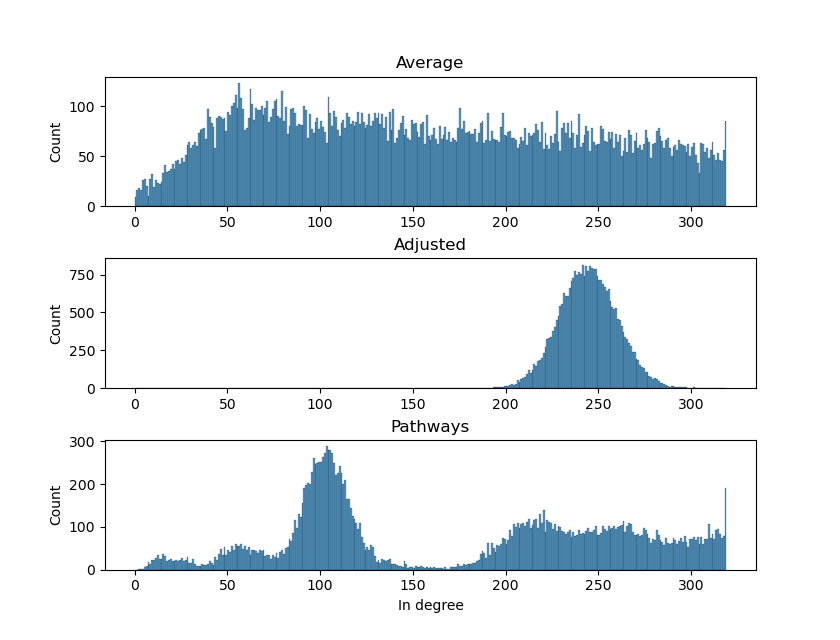
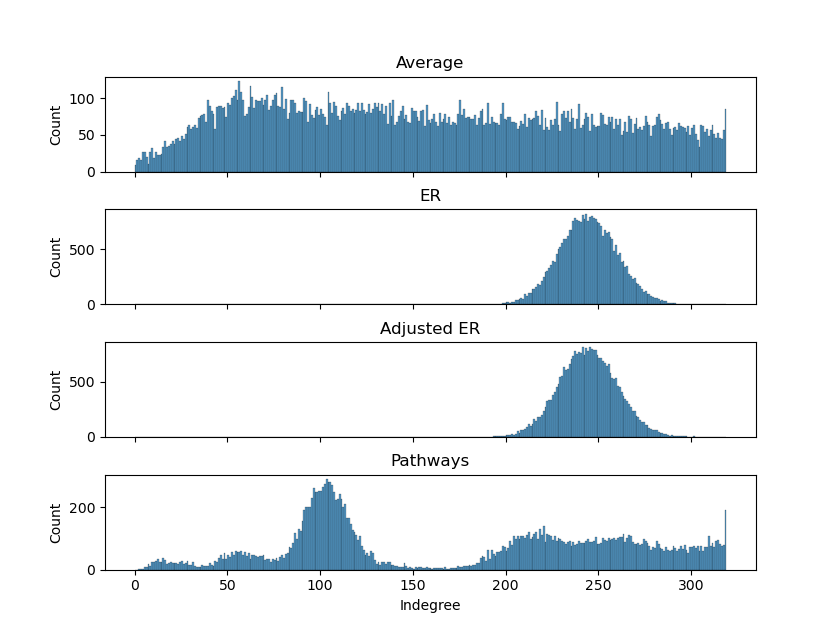
Changed degree distribution plots

diff --git a/plot_scripts/plot_distr.py b/plot_scripts/plot_distr.py
@@ -8,10 +8,12 @@ import matplotlib.pyplot as plt
 p_average = Path("data/ready/average/cons_locs_pathways_mc0_Column")
 p_adjusted = Path("data/ready/controls_1/adjusted/seed_0")
 p_pathways = Path("data/ready/controls_1/pathway/seed_0")
+p_er = Path("data/ready/controls_1/shuffled/seed_0")
 
 r_average = ResultManager(p_average)
 r_adjusted = ResultManager(p_adjusted)
 r_pathways = ResultManager(p_pathways)
+r_er = ResultManager(p_er)
 
 m_average = r_average.get_file_matrix(p_average)
 bm_average = m_average.multiply(m_average.T)
@@ -19,23 +21,36 @@ m_adjusted = r_adjusted.get_file_matrix(p_adjusted)
 bm_adjusted = m_adjusted.multiply(m_adjusted.T)
 m_pathways = r_pathways.get_file_matrix(p_pathways)
 bm_pathways = m_pathways.multiply(m_pathways.T)
+m_er = r_er.get_file_matrix(p_er)
+bm_er = m_er.multiply(m_er.T)
 
-count_a = np.squeeze(np.array(bm_average.sum(axis=1)))
-count_b = np.squeeze(np.array(bm_adjusted.sum(axis=1)))
-count_c = np.squeeze(np.array(bm_pathways.sum(axis=1)))
 
-dfa = pd.DataFrame(count_a, columns = ["Bidegree"])
-dfb = pd.DataFrame(count_b, columns = ["Bidegree"])
-dfc = pd.DataFrame(count_c, columns = ["Bidegree"])
+count_a = np.squeeze(np.array(m_average.sum(axis=0)))
+count_b = np.squeeze(np.array(m_adjusted.sum(axis=0)))
+count_c = np.squeeze(np.array(m_pathways.sum(axis=0)))
+count_d = np.squeeze(np.array(m_er.sum(axis=0)))
 
-fig, axes = plt.subplots(3,1, sharex = False, figsize = [8.4, 6.4])
-sns.histplot(x = "Bidegree", data = dfa, ax = axes[0], bins = np.arange(50))
-sns.histplot(x = "Bidegree", data = dfb, ax = axes[1], bins = np.arange(50))
-sns.histplot(x = "Bidegree", data = dfc, ax = axes[2], bins = np.arange(50))
+dfa = pd.DataFrame(count_a, columns = ["Indegree"])
+dfb = pd.DataFrame(count_b, columns = ["Indegree"])
+dfc = pd.DataFrame(count_c, columns = ["Indegree"])
+dfd = pd.DataFrame(count_d, columns = ["Indegree"])
+
+fig, axes = plt.subplots(4,1, sharex = True, figsize = [8.4, 6.4])
+sns.histplot(x = "Indegree", data = dfa, ax = axes[0], bins = np.arange(320))
+sns.histplot(x = "Indegree", data = dfb, ax = axes[2], bins = np.arange(320))
+sns.histplot(x = "Indegree", data = dfc, ax = axes[3], bins = np.arange(320))
+sns.histplot(x = "Indegree", data = dfd, ax = axes[1], bins = np.arange(320))
 axes[0].set_title("Average")
-axes[1].set_title("Adjusted")
-axes[2].set_title("Pathways")
+axes[1].set_title("ER")
+axes[2].set_title("Adjusted ER")
+axes[3].set_title("Pathways")
 axes[0].set_xlabel("")
 axes[1].set_xlabel("")
+axes[2].set_xlabel("")
+# bidirectional edge only
+# axes[0].annotate("BE count: " + str(bm_average.count_nonzero()), (40,2000))
+# axes[1].annotate("BE count: " + str(bm_er.count_nonzero()), (40,5000))
+# axes[2].annotate("BE count: " + str(bm_adjusted.count_nonzero()), (40,3000))
+# axes[3].annotate("BE count: " + str(bm_pathways.count_nonzero()), (40,3000))
 fig.subplots_adjust(hspace = 0.4)
-fig.savefig("bidegree_distr", facecolor = "white")
+fig.savefig("indegree_distr", facecolor = "white")
